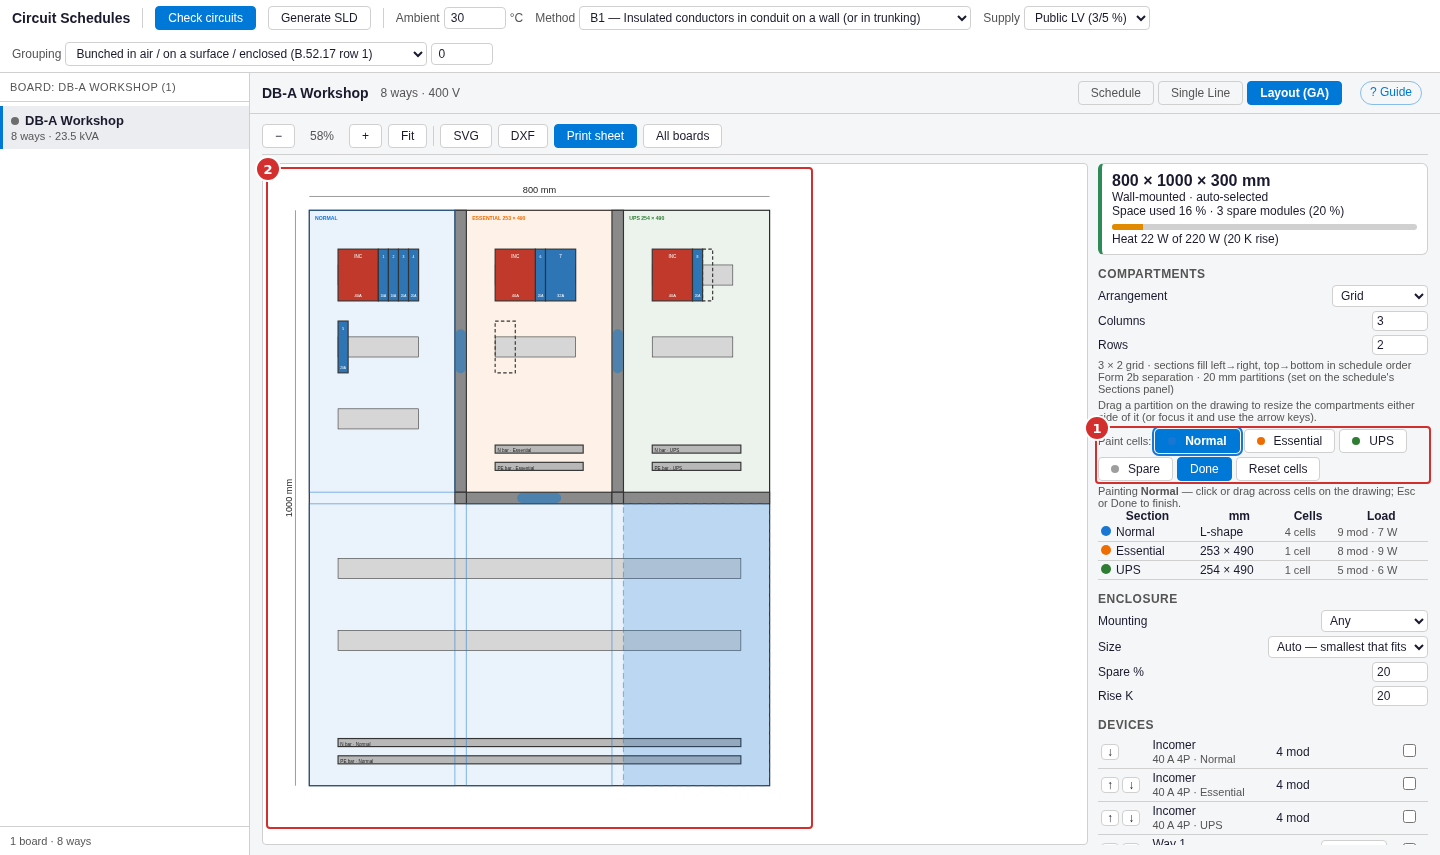
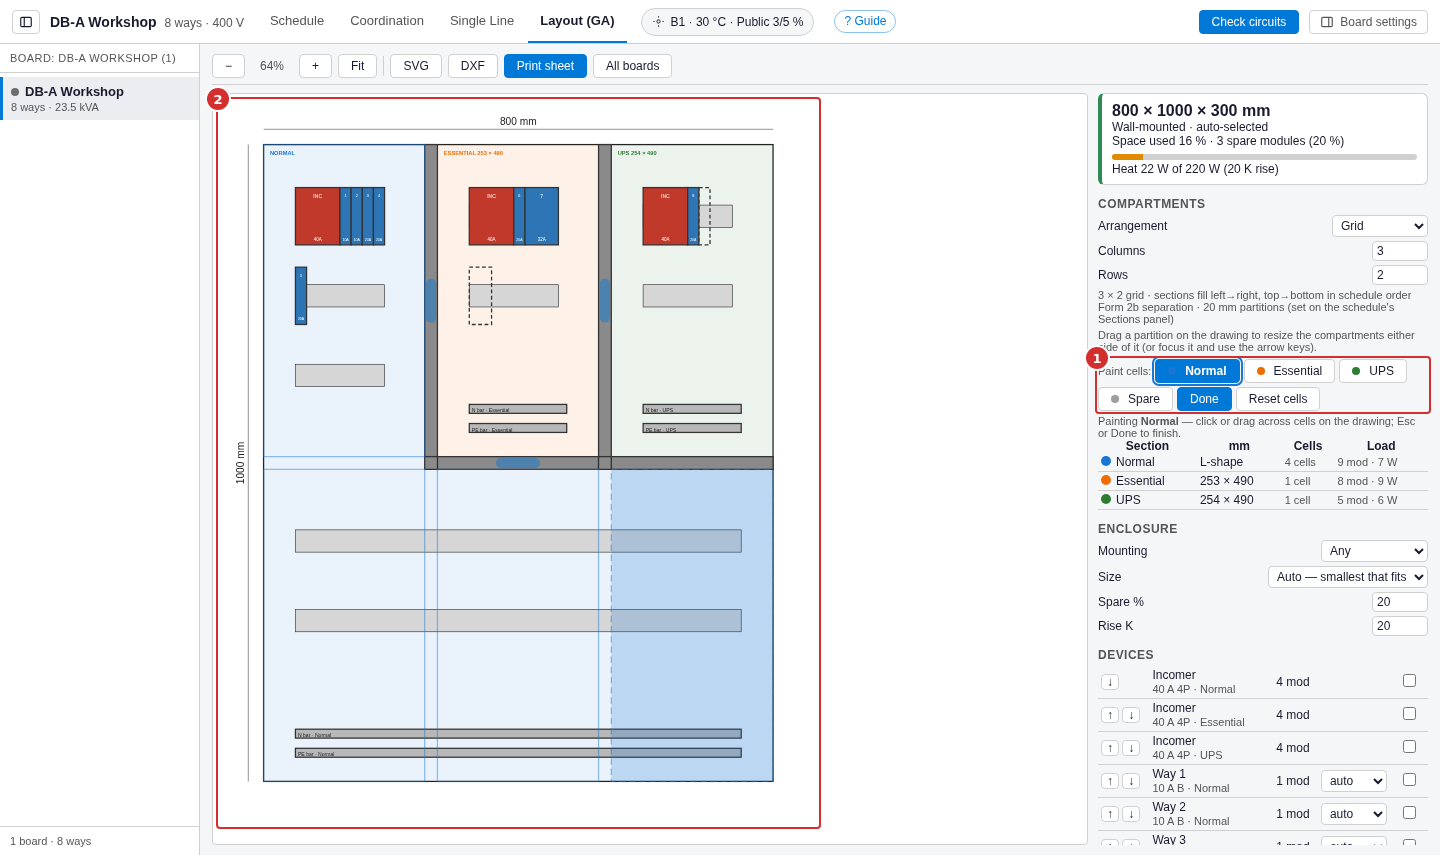
Schedules: side panel closed by default; regenerate board guide pictures
With the board rail and the side panel both open on a 1440 px screen, the
grid's frozen left band and pinned verdict columns left ~50 px for the
columns between them. The side panel now opens from a labelled Board
settings button (remembered per browser) and by itself while ways are
ticked for bulk edit. The header status truncates instead of wrapping the
buttons onto a second line.

Help guide pictures db-* regenerated against the new layout; setups open
the side panel for the presets and sections shots, and the result-columns
callout points at a real header cell.

Claude-Session: https://claude.ai/code/session_01KGKA57eHTqULcUAKPM9SbC

diff --git a/frontend/js/help-guides.js b/frontend/js/help-guides.js
@@ -117,20 +117,20 @@ const HELP_GUIDES = [
   intro: 'The schedule is one row per way: breaker, cable, load and phase. Everything else on the board (single line, front view, bill of quantities, circuit check) is drawn from it.',
   steps: [
     { title: 'Open the board',
-      html: 'Open the <strong>Schedules</strong> workspace and pick the board in the rail on the left (the button beside <strong>← Single line</strong> hides the rail). The grid fills the window; the board’s own settings — incoming protection, sections, earth leakage, accessories — are in the side panel on the right, and the installation conditions open from the chip in the header. Boards come from <em>Distribution Board</em> symbols on the single-line diagram. Double-clicking a board on the diagram opens its schedule here, and <strong>← Single line</strong> takes you back.',
+      html: 'Open the <strong>Schedules</strong> workspace and pick the board in the rail on the left (the button beside <strong>← Single line</strong> hides the rail). The grid fills the window. The board’s own settings — incoming protection, common circuits, sections, earth leakage, accessories — open in a side panel from <strong>Board settings</strong>, and the installation conditions from the chip in the header. Boards come from <em>Distribution Board</em> symbols on the single-line diagram. Double-clicking a board on the diagram opens its schedule here, and <strong>← Single line</strong> takes you back.',
       shot: { file: 'db-schedule-1.png', alt: 'The Schedules workspace with a board selected and its circuit schedule',
         setup: 'schedule-grid', clip: '#schedules-workspace',
         callouts: [
           { sel: '#sch-board-list', label: 'Board rail — every distribution board in the project' },
           { sel: '.sch-grid-head .sch-tabs', label: 'Schedule, Single Line and Layout (GA) views of the same board' },
           { sel: '.db-phase-bars', label: 'Load on each phase — R / W / B' },
-          { sel: '#db-side', label: 'Side panel — board settings, or bulk edit while ways are ticked' },
+          { sel: '#sch-side-toggle', label: 'Board settings — protection, sections, earth leakage, accessories' },
           { sel: '.db-schedule-grid thead th.db-grp-h', label: 'Column groups — click a group heading to fold it' },
         ] } },
     { title: 'Add the loads',
-      html: 'In the side panel, open <strong>Add common circuits</strong>, choose a load type, set how many, and press <strong>+ Add circuit</strong>. The quick buttons add a batch (10 lights, 5 sockets). <strong>+ Add way</strong> above the grid adds an empty way. Each new way takes the next way number and the next phase, so the board stays balanced as you add.',
+      html: 'Open <strong>Board settings</strong> ▸ <strong>Add common circuits</strong>, choose a load type, set how many, and press <strong>+ Add circuit</strong>. The quick buttons add a batch (10 lights, 5 sockets). <strong>+ Add way</strong> above the grid adds an empty way. Each new way takes the next way number and the next phase, so the board stays balanced as you add.',
       shot: { file: 'db-schedule-2.png', alt: 'The add-load presets and quick buttons in the side panel',
-        setup: 'schedule-grid', clip: '#schedules-workspace',
+        setup: 'schedule-presets', clip: '#schedules-workspace',
         callouts: [
           { sel: '#db-load-type', label: 'Load type — sets a typical load, breaker and cable' },
           { sel: '#db-quick-lights', label: 'Quick batches' },
@@ -138,7 +138,7 @@ const HELP_GUIDES = [
     { title: 'Edit like a spreadsheet',
       html: 'Click a cell and type. Arrow keys move, <kbd>Enter</kbd> goes down, <kbd>Tab</kbd> goes right, <kbd>F2</kbd> edits inside a cell. Select a block with <kbd>Shift</kbd>+arrows or by dragging, then <kbd>Ctrl</kbd>+<kbd>C</kbd> / <kbd>Ctrl</kbd>+<kbd>V</kbd> to copy to and from Excel, and <kbd>Ctrl</kbd>+<kbd>D</kbd> to fill down. Text pasted into a number cell is refused and marked, never turned into zero.' },
     { title: 'Change many ways at once',
-      html: 'Tick the boxes at the left of several ways. The side panel turns into <strong>Bulk edit</strong> with the fields you can set for all of them — leave a field blank to keep each way’s own value — then press <strong>Apply</strong>. The <strong>Device</strong> list shows only library breakers at the Breaker (A) and Curve entered (or the ones the ticked ways share); narrow it further by manufacturer and by MCB / MCCB / ACB.',
+      html: 'Tick the boxes at the left of several ways. A side panel opens as <strong>Bulk edit</strong> with the fields you can set for all of them — leave a field blank to keep each way’s own value — then press <strong>Apply</strong>. The <strong>Device</strong> list shows only library breakers at the Breaker (A) and Curve entered (or the ones the ticked ways share); narrow it further by manufacturer and by MCB / MCCB / ACB.',
       shot: { file: 'db-schedule-3.png', alt: 'Two ways ticked and the bulk edit panel showing',
         setup: 'schedule-bulk', clip: '#schedules-workspace',
         callouts: [
@@ -151,10 +151,10 @@ const HELP_GUIDES = [
         setup: 'schedule-checked', clip: '#schedules-workspace',
         callouts: [
           { sel: '#sch-run-check', label: 'Check circuits' },
-          { sel: '.db-schedule-grid thead th[data-label="FLA (A)"], .db-schedule-grid thead th:nth-last-child(5)', label: 'Results — current, rating, volt drop, earth conductor' },
+          { sel: '.db-schedule-grid thead tr:not(.db-grp-row) th.db-fla-h', label: 'Results — current, rating, volt drop, earth conductor' },
         ] } },
     { title: 'Pick library breakers and read the mini TCC',
-      html: 'In the <strong>Device</strong> column pick a breaker from the library: its rating and curve are written to the way. Set the board’s <strong>incoming device</strong> and its maximum fault level under the grid. After <strong>Check circuits</strong>, click a <strong>Coord</strong> cell to open the mini TCC: the way’s breaker, the incomer and any breaker above it on their published bands, with checks for discrimination, the cable’s I²t withstand and breaking capacity (cascading counts where allowed).',
+      html: 'In the <strong>Device</strong> column pick a breaker from the library: its rating and curve are written to the way. Set the board’s <strong>incoming device</strong> and its maximum fault level in <strong>Board settings</strong> ▸ <strong>Incoming protection</strong>. After <strong>Check circuits</strong>, click a <strong>Coord</strong> cell to open the mini TCC: the way’s breaker, the incomer and any breaker above it on their published bands, with checks for discrimination, the cable’s I²t withstand and breaking capacity (cascading counts where allowed).',
       shot: { file: 'db-schedule-5.png', alt: 'The mini TCC of a way: its breaker and the incomer on their curves with the discrimination, cable and breaking-capacity verdicts',
         setup: 'db-coord', clip: 'viewport',
         callouts: [
@@ -172,11 +172,11 @@ const HELP_GUIDES = [
 
 // ───────────────────────────────────────────────────────────────────────────
 { id: 'db-sections', group: 'boards', title: 'Split a board into Normal, Essential and UPS sections',
-  where: 'Schedules ▸ board ▸ Schedule ▸ Sections / compartments', time: '5 min', phone: 'Sections sheet from the ⋯ menu or the Sections chip',
+  where: 'Schedules ▸ board ▸ Board settings ▸ Sections / compartments', time: '5 min', phone: 'Sections sheet from the ⋯ menu or the Sections chip',
   intro: 'One board can hold physically separate compartments, each with its own supply, incomer, busbar and N/PE bars. Ways belong to a section, and the single line, front view, circuit check and bill of quantities all follow.',
   steps: [
     { title: 'Open the Sections panel',
-      html: 'Above the grid, open <strong>Sections / compartments</strong>. A board with no sections is one compartment; the first section you add takes all its existing ways.',
+      html: 'Open <strong>Board settings</strong> ▸ <strong>Sections / compartments</strong>. A board with no sections is one compartment; the first section you add takes all its existing ways.',
       shot: { file: 'db-sections-1.png', alt: 'The Sections panel with three section cards and the add buttons',
         setup: 'sections-panel', clip: '#schedules-workspace',
         callouts: [

diff --git a/frontend/js/schedules.js b/frontend/js/schedules.js
@@ -69,9 +69,10 @@ const Schedules = {
         <span class="sch-status" id="sch-status"></span>
         <button class="btn-small btn-primary" id="sch-run-check"
           title="Run the per-way cable check on every board — derated ampacity, Ib ≤ In ≤ Iz, voltage drop, ECC size and earth-fault loop Zs">Check circuits</button>
-        <button class="btn-small sch-icon-btn" id="sch-side-toggle" aria-expanded="true"
-          title="Show or hide the side panel (board settings and bulk edit)" aria-label="Show or hide the side panel">
-          <svg width="14" height="14" viewBox="0 0 24 24" fill="none" stroke="currentColor" stroke-width="2" aria-hidden="true"><rect x="3" y="4" width="18" height="16" rx="2"></rect><path d="M15 4v16"></path></svg></button>
+        <button class="btn-small sch-icon-btn" id="sch-side-toggle" aria-expanded="false"
+          title="Board settings: incoming protection, common circuits, sections, earth leakage and accessories. Ticking ways opens it as bulk edit.">
+          <svg width="14" height="14" viewBox="0 0 24 24" fill="none" stroke="currentColor" stroke-width="2" aria-hidden="true"><rect x="3" y="4" width="18" height="16" rx="2"></rect><path d="M15 4v16"></path></svg>
+          Board settings</button>
         <div class="sch-install" id="sch-install" role="dialog" aria-label="Installation conditions">
           <div class="sch-install-title">Installation conditions
             <span>Used for the cable derating, voltage-drop limits and grouping of every way on this board</span></div>
@@ -113,6 +114,9 @@ const Schedules = {
       e.currentTarget.setAttribute('aria-expanded', String(!hidden));
     });
     ws.querySelector('#sch-side-toggle').addEventListener('click', () => this.setSidePanel(ws.classList.contains('sch-side-hidden')));
+    this._sidePinned = false;
+    try { this._sidePinned = localStorage.getItem('protectionpro-sch-side') === '1'; } catch (e) { /* storage blocked */ }
+    this._syncSide(false);
     ws.querySelector('#sch-install-done').addEventListener('click', () => this._toggleInstall(false));
     document.addEventListener('pointerdown', (e) => {
       if (!this._installOpen || !this._installEl) return;
@@ -433,14 +437,25 @@ const Schedules = {
     }
   },
 
-  // The right-hand side panel (DBSchedule's .db-side). Hidden by the header
-  // button; ticking a way brings it back, since bulk edit lives in it.
+  // The right-hand side panel (DBSchedule's .db-side). Closed by default:
+  // with it open beside the board rail, the grid's frozen columns on both
+  // edges leave almost nothing for the middle ones. The header button opens it
+  // for the board settings (remembered per browser); ticking ways opens it as
+  // bulk edit until the selection is cleared.
+  _sidePinned: false,
   setSidePanel(show) {
+    this._sidePinned = !!show;
+    try { localStorage.setItem('protectionpro-sch-side', show ? '1' : '0'); } catch (e) { /* storage blocked */ }
+    this._syncSide(typeof DBSchedule !== 'undefined' && DBSchedule._selected && DBSchedule._selected.size > 0 && show);
+  },
+
+  _syncSide(hasSelection) {
     const ws = document.getElementById('schedules-workspace');
     if (!ws) return;
+    const show = this._sidePinned || !!hasSelection;
     ws.classList.toggle('sch-side-hidden', !show);
     const b = document.getElementById('sch-side-toggle');
-    if (b) b.setAttribute('aria-expanded', String(!!show));
+    if (b) b.setAttribute('aria-expanded', String(show));
   },
 
   // One quiet line: the conditions in force, in words.

diff --git a/frontend/css/schedules.css b/frontend/css/schedules.css
@@ -66,8 +66,12 @@
 .sch-chip svg { color: var(--text-secondary); flex: 0 0 auto; }
 .sch-icon-btn { display: inline-flex; align-items: center; justify-content: center; padding: 4px 6px; }
 .sch-icon-btn[aria-expanded="false"] { color: var(--text-secondary); }
-.sch-status { font-size: 12px; color: var(--text-secondary); margin-left: auto; min-width: 0;
-  white-space: nowrap; overflow: hidden; text-overflow: ellipsis; max-width: 320px; }
+/* Grows into the free space and truncates, so a long message never pushes
+   the buttons after it onto a second header line. */
+.sch-status { flex: 1 1 0; min-width: 0; text-align: right; font-size: 12px; color: var(--text-secondary);
+  white-space: nowrap; overflow: hidden; text-overflow: ellipsis; }
+#sch-side-toggle { gap: 6px; padding: 4px 10px; }
+#sch-side-toggle[aria-expanded="true"] { border-color: var(--accent); color: var(--accent); }
 
 .sch-body { flex: 1; display: flex; min-height: 0; }
 
@@ -494,7 +498,7 @@ body.dark-mode .dba-note.warn { color: #ef5350; }
     border-right: none; border-bottom: 1px solid var(--border-color);
   }
   .sch-toolbar { gap: 8px; padding: 6px 8px; }
-  .sch-status { margin-left: 0; width: 100%; max-width: none; }
+  .sch-status { flex: 1 1 100%; text-align: left; }
   #sch-rail-toggle, #sch-side-toggle { display: none; }
   .sch-tab { min-height: 32px; }
 }

diff --git a/frontend/js/dbschedule.js b/frontend/js/dbschedule.js
@@ -1819,9 +1819,9 @@ Magnetic trip: If ${row.ief_a >= row.ia_a ? '≥' : '<'} Ia  →  disconnection 
     // The side panel shows bulk edit OR the board settings, never both.
     const side = this.body.querySelector('#db-side');
     if (side) side.classList.toggle('db-side-bulk', n > 0);
+    if (side && typeof Schedules !== 'undefined' && Schedules._syncSide) Schedules._syncSide(n > 0);
     if (n === 0) { wrap.innerHTML = ''; wrap.style.display = 'none'; return; }
     wrap.style.display = '';
-    if (typeof Schedules !== 'undefined' && Schedules.setSidePanel) Schedules.setSidePanel(true);
 
     // Already open: only the count changed. Patch the text rather than rebuild
     // the panel — rebuilding would blur whatever field is being typed into.

diff --git a/BACKLOG.md b/BACKLOG.md
@@ -1762,3 +1762,4 @@ Help ▸ Guides (`frontend/js/help-guides.js`, pictures in `frontend/img/help/`)
 - **Circuit schedule: header, import preview, summary, Coordination tab** (2026-10-28): the installation conditions (ambient, method, supply, grouping) are one summary line under the board title with an Edit button that opens the same controls (`schedules.js`); Excel import now matches by Way number and shows a preview first (`DBSchedule._importPlan/_importPreview/_importApply`): new / changed (old vs file, Use file / Keep mine per field, apply to all) / not in the file, optional removal, section creation, feeder and plan-driven ways never touched, conduit fields now update existing ways, only columns present in the file are compared, one commit = one undo step; the Properties panel shows a read-only board summary (ways, load, phase balance, last check); the mini TCC is a Coordination tab with a way picker (`DbCoord.mount`, the Coord chip opens it) and the coordination modal is gone. Verified headless.
 - **ABB MCB library: S200 / S200M / S300P / S800** (2026-10-28): `testing/vendor-libraries/build_abb_mcb.py` → `abb_mcb_breakers.json` (261 entries, curves B / C / D: S200 0.5–100 A, S200M, S300P, S800C / N / S / P to 125 A; ratings from the A01 catalogue's ordering codes, Icn = `breaking_ka`, Icu / Ics at 400/415 V) + `js/vendor-trip-units-abb-mcb.js` (19 profiles). The minimum / maximum IEC 60898-1 (30 °C) curves of each series (≤ 4 A, 6–63 A, S200 80–100 A, the S800 band chart) are digitised from the B01 technical-details PDF's vector charts by `digitize_abb_mcb.py` into `data/abb_mcb_curves.json`; magnetic band = the drawn edges, against In (S200 / S200M / S300P B 3–5, C 5–8, D 10–15 × In; S800 3–5 / 5–10 / 10–20), 10 ms above. Recorded in the generator: S200M Icu 15 kA ≤ 40 A (the catalogue's 10 kA contradicts its own Ics 11.2 kA), the S800 chart is schematic (entries carry `check`), S200 C 80 / 100 A have no published chart (left out); K / Z / UC / MT / SU / SN201 / S200C not carried. Tests in `test_vendor_libraries.py` (TestAbbMcb) and `test_pickup_base.mjs`.
 - **Circuit schedule: new layout + filtered Device picker** (2026-10-28): the Schedules page is one header row (back, board-rail toggle, board, Schedule / Coordination / Single Line / Layout tabs, an installation-conditions chip that opens a small panel, status, Check circuits, side-panel toggle); above the grid only a one-line phase/totals strip and one tool row (section tabs, + Add way, Auto balance, Fill ECC, Import / Export); everything else about the board (incoming protection, add-circuit presets, sections, earth leakage, accessories) is a right-hand side panel that becomes **Bulk edit** while ways are ticked, so the grid fills the window. The **Device** picker is filtered by the way's Breaker (A) + Curve (curve narrows MCBs only), with a tooltip saying so; a pick that no longer matches stays, flagged. Bulk edit gains **Device** (filtered by the typed or shared rating / curve, plus a Manufacturer list built from the library and MCB / MCCB / ACB buttons; "Generic" clears a library pick), and a bulk Breaker (A) / Curve now drops a stale library device like a cell edit does. Speed: every row used to carry the whole breaker library — with every manufacturer catalogue imported (~1,300 breakers) a 48-way board rendered 63,000 `<option>`s in 1.4 s; now ~4,500 in 0.15 s, and a Breaker (A) / Curve edit rebuilds only that row's list (`DbCoord.matches / filtered / makers / filterNote`, `DBSchedule._refreshDeviceCell / _bulkDeviceFilter / _refreshBulkDevice`).
+- **Schedules: side panel closed by default + guide pictures** (2026-10-28): with the board rail and the side panel both open on a 1440 px screen the grid's frozen columns (left band + pinned verdicts) left ~50 px for everything between them, hiding Load (VA) and the column groups. The side panel now opens from a labelled **Board settings** button (remembered per browser, `protectionpro-sch-side`) and by itself while ways are ticked for bulk edit (`Schedules._syncSide`); the header status truncates instead of wrapping the buttons onto a second line. Help ▸ Guides pictures for the board guides (`db-*`, 16) regenerated, with setups for the presets / sections side panel.
